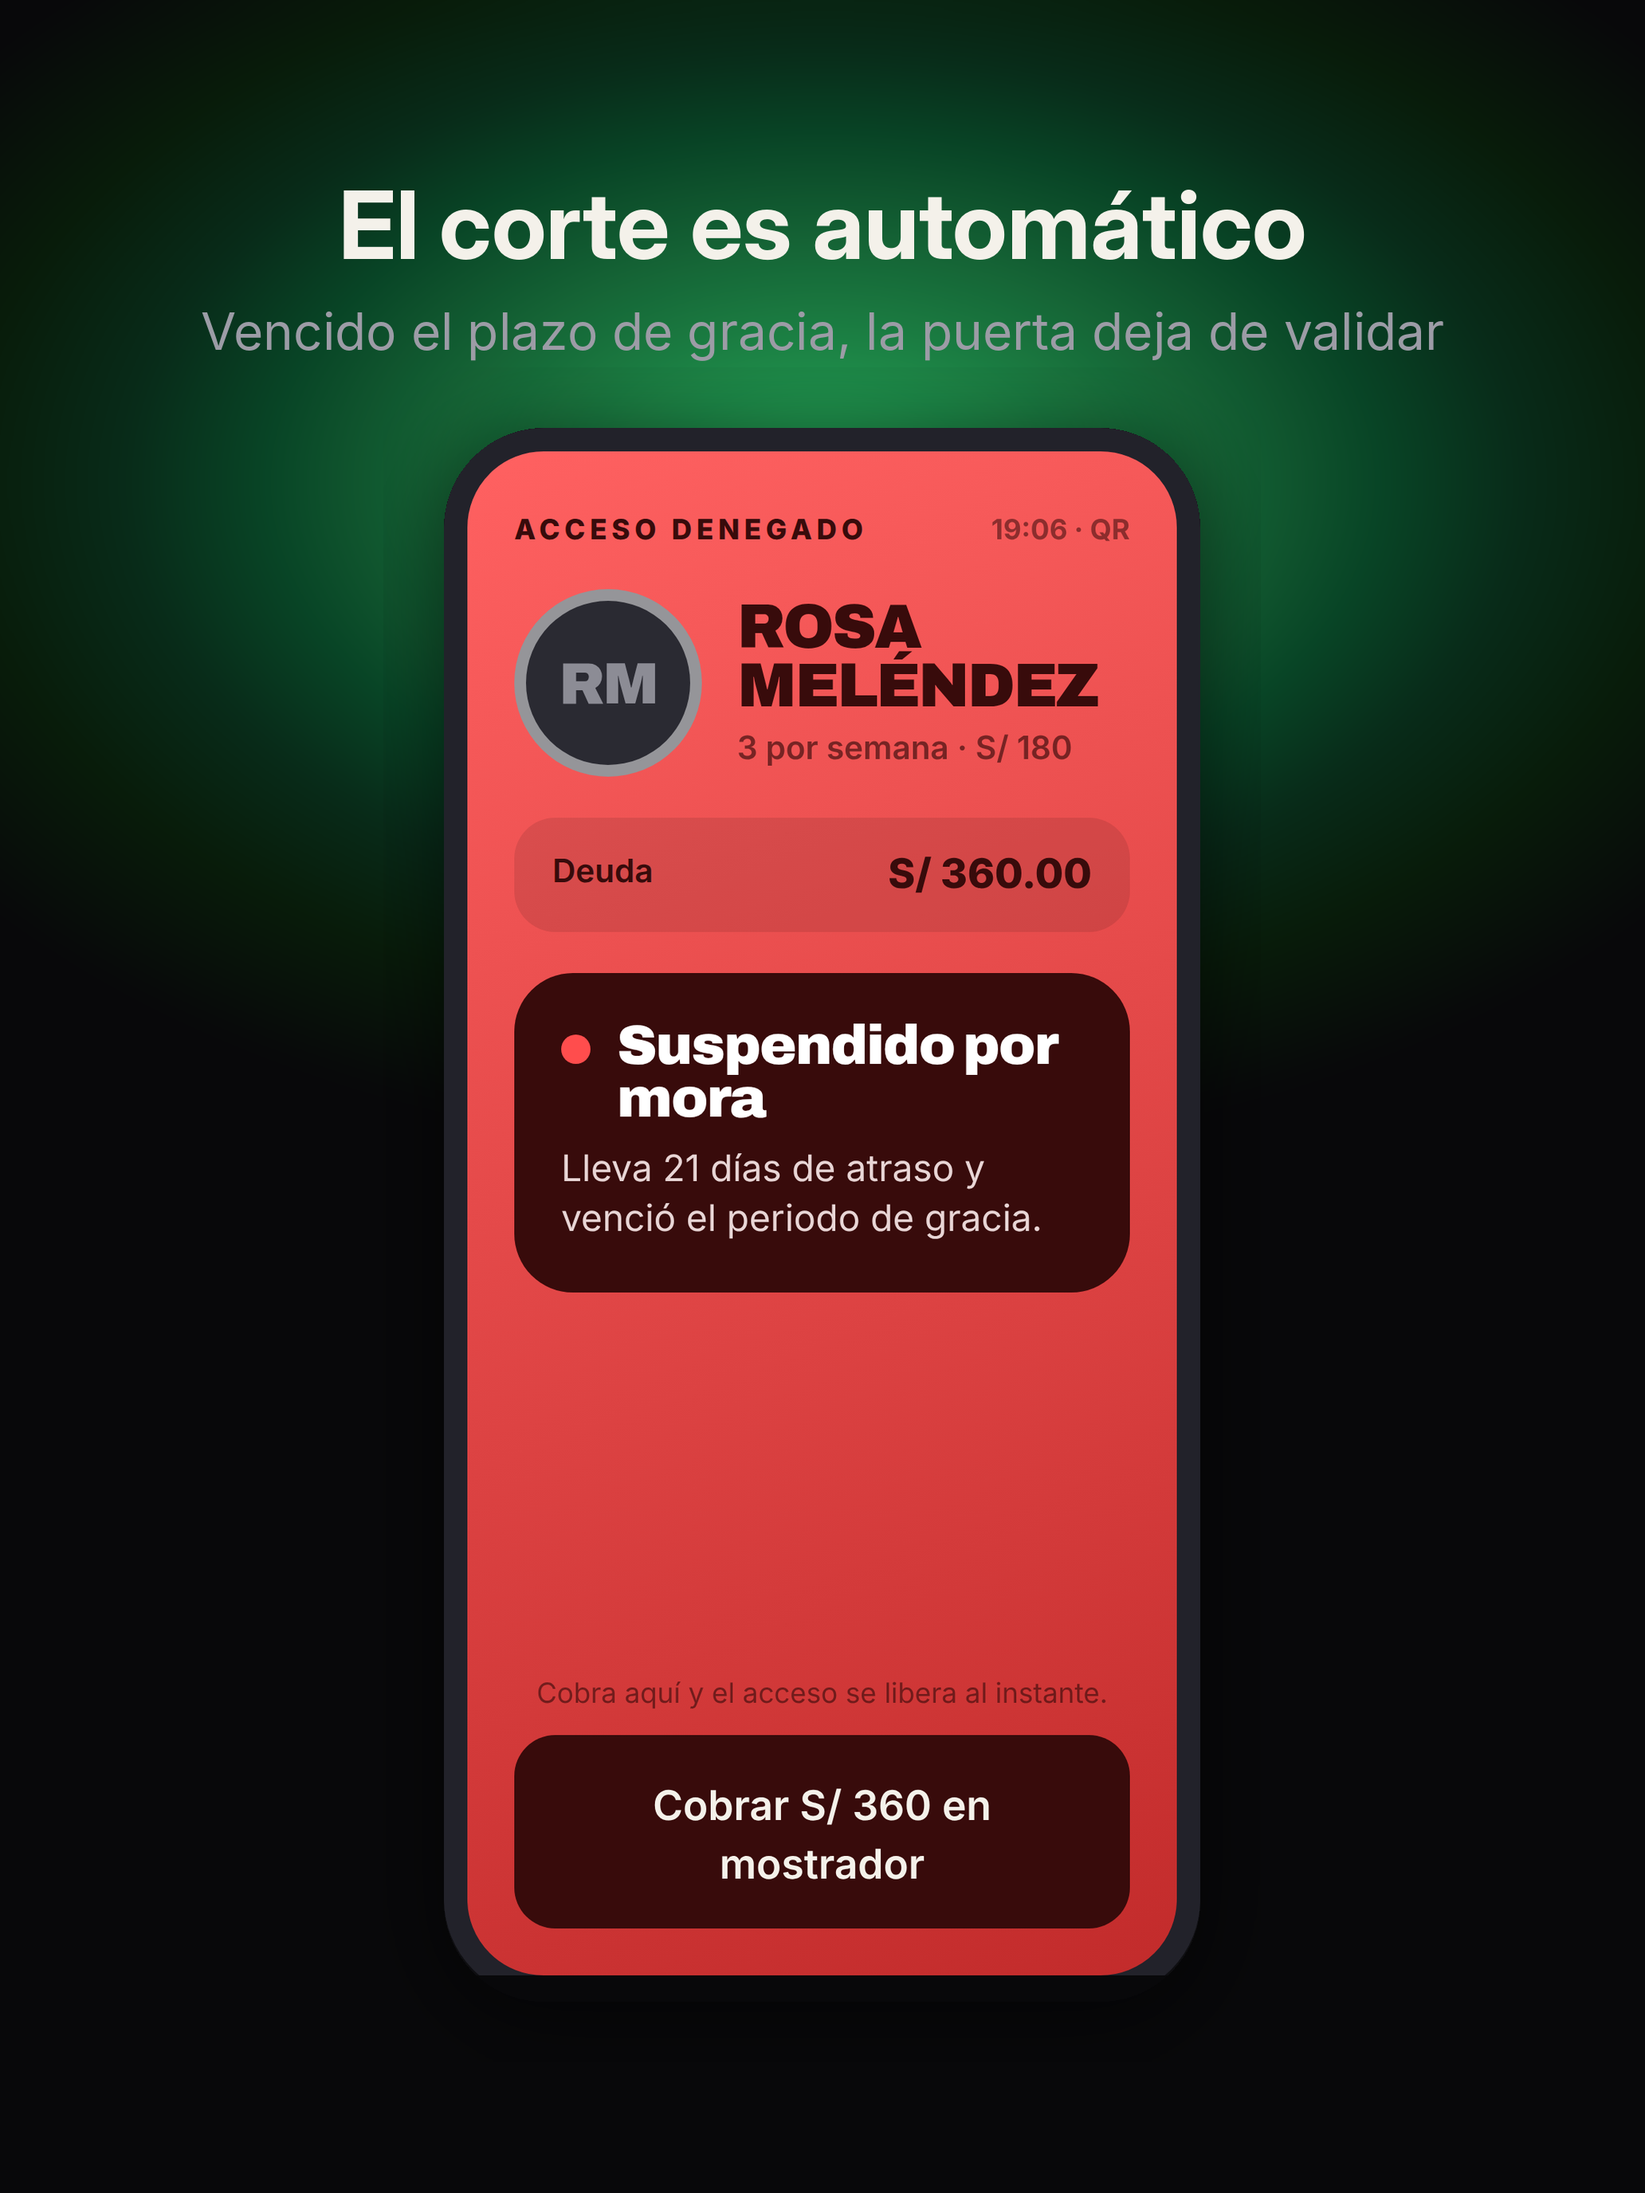
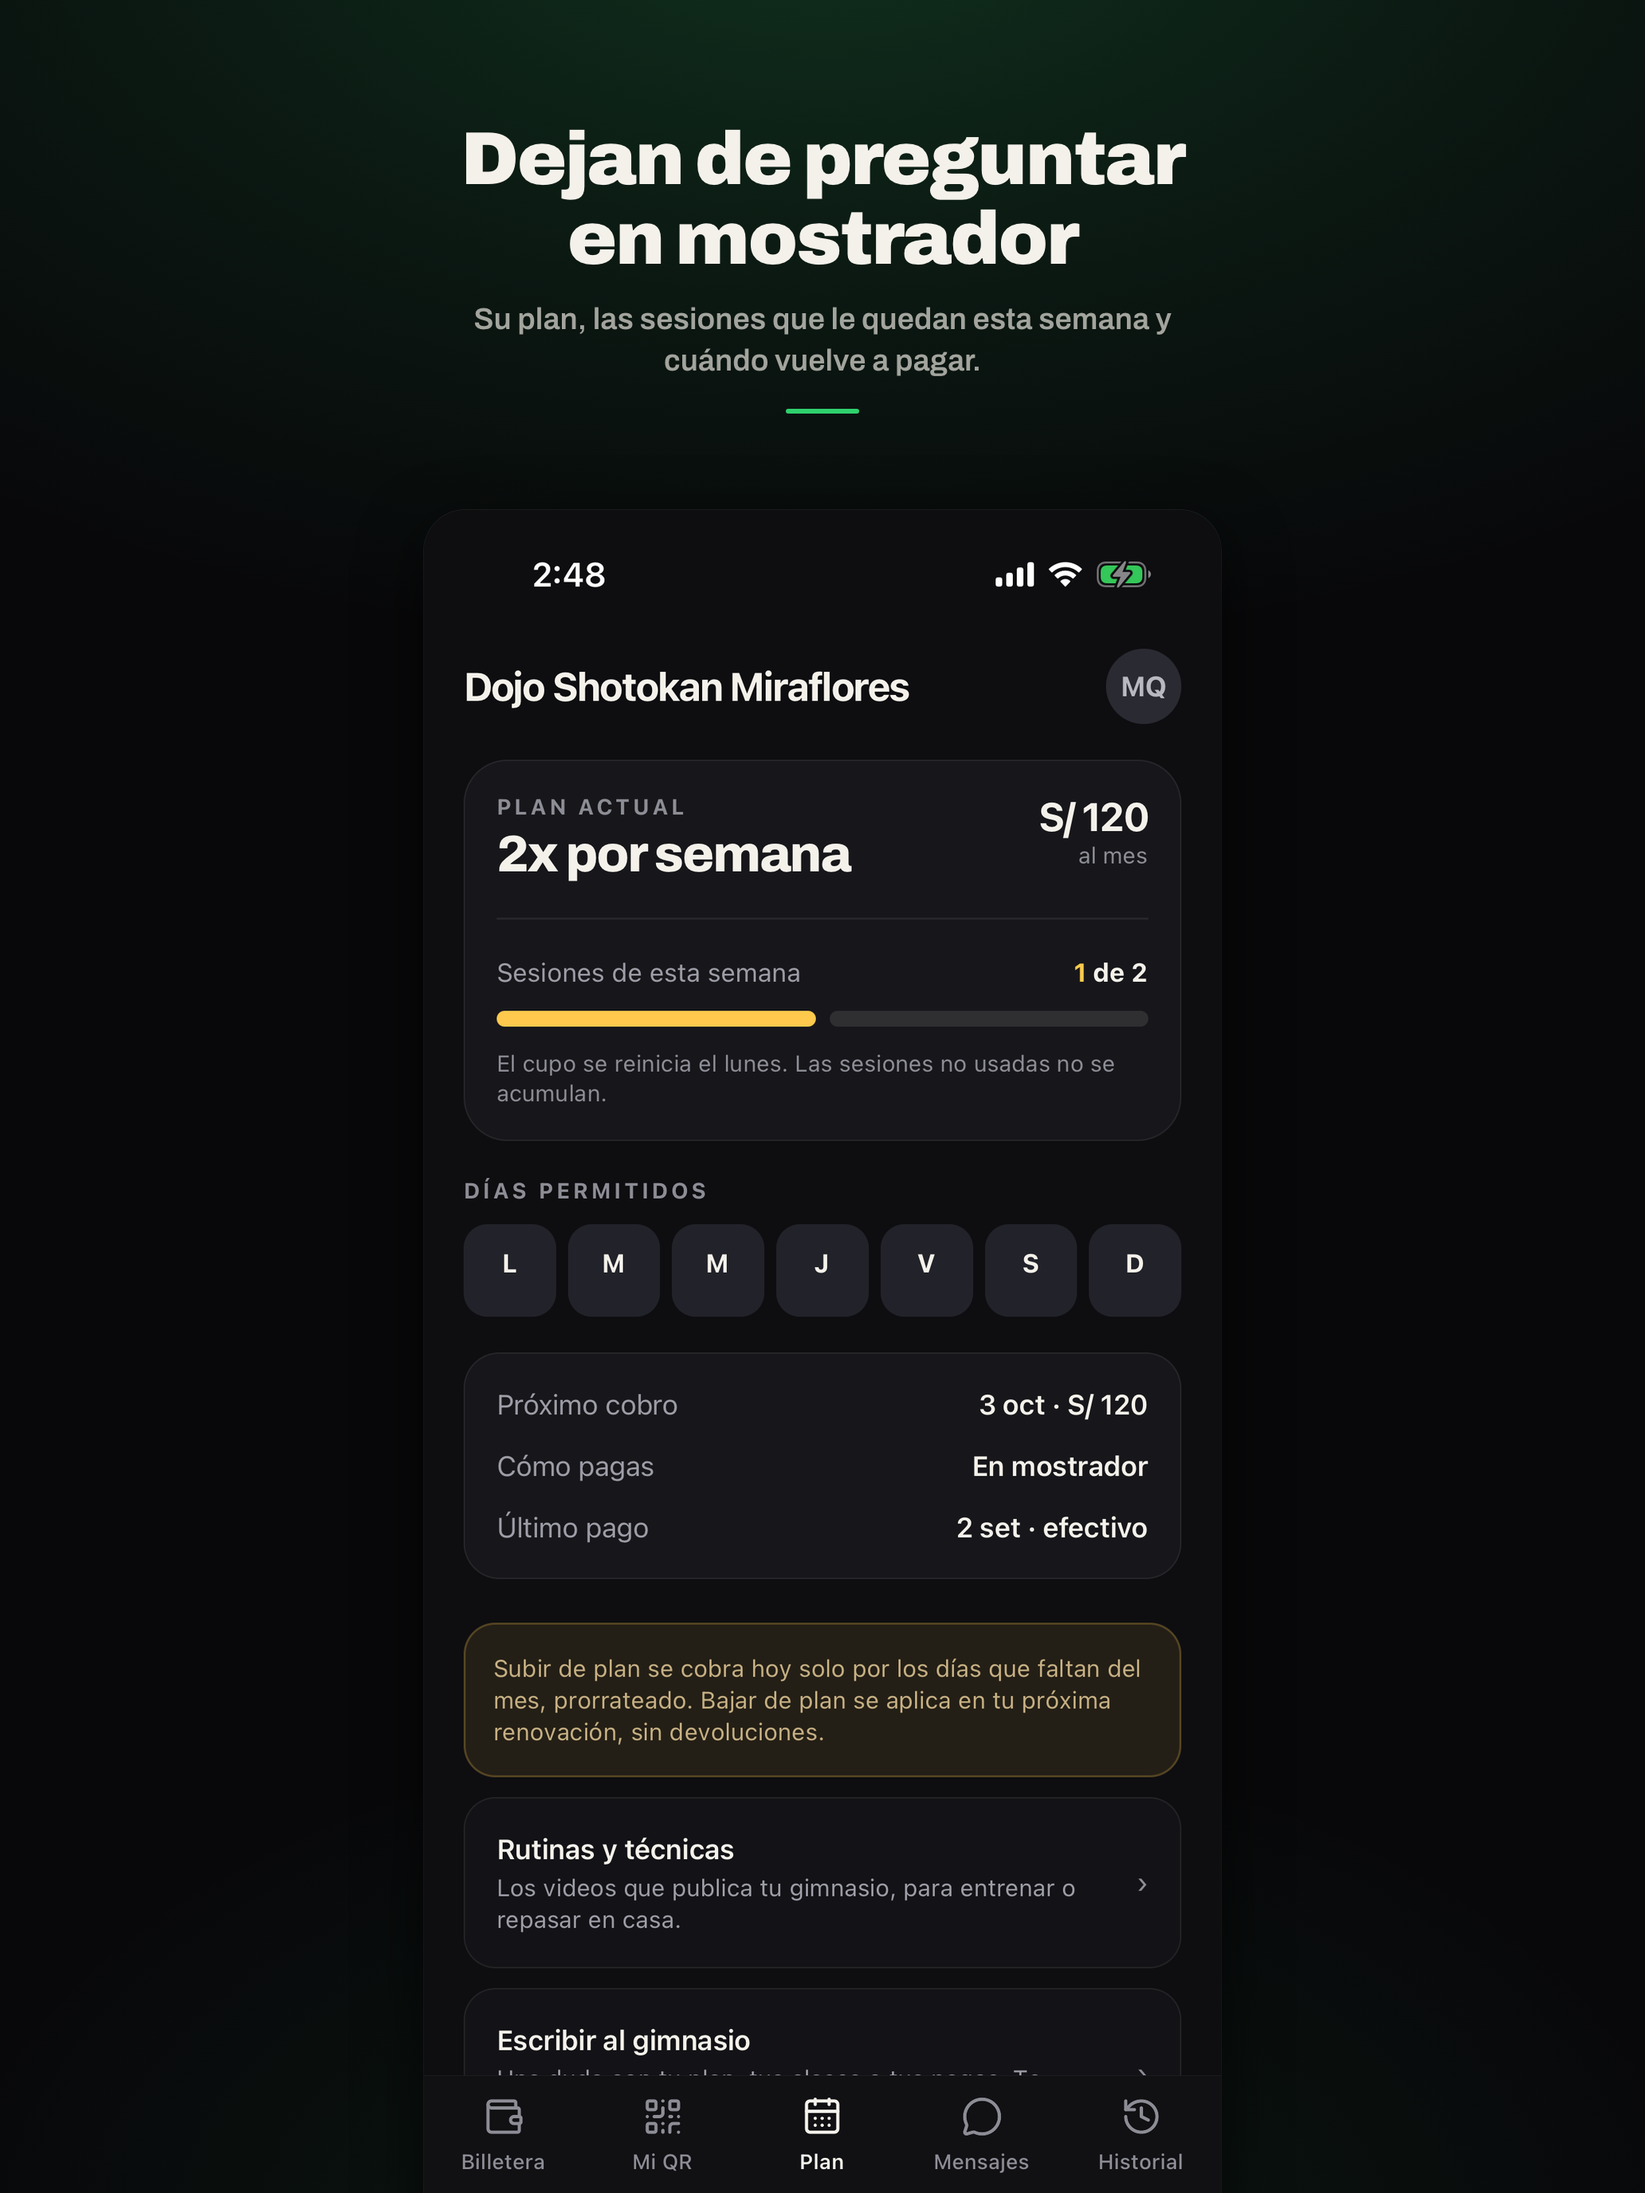
Las capturas de la tienda dejan de ser dibujos y pasan a ser la app
Las ocho de `store/appstore/` eran una reconstrucción con los tokens de
`@sinchi/ui`: un padrón de 42 alumnos que no existe, dibujado a mano. En la
landing ese argumento ya se había caído hace dos commits; en la tienda se cae más
fuerte, porque la captura es la promesa con la que alguien instala, y quien
encuentra otra cosa desinstala.

Ahora son las MISMAS capturas del simulador que usa la portada —el padrón con su
deuda, el QR que se renueva, el corte por mora, el plan del alumno y la billetera
con tres gimnasios— con un titular encima que dice qué gana quien mira. Cinco por
formato en vez de cuatro: la billetera es lo único que cuenta que una cuenta sirve
para varios locales, y era justo lo que no se veía.

SE COMMITEAN LAS PUBLICADAS, byte por byte, y la receta al lado. `generar.mjs`
las rehace desde `fuente/*.jpg` —el original de 1206 px, en JPEG porque en PNG
pesaban 4,5 MB y siempre se muestran reducidas—, y de ahí sale también por qué
hay una carpeta nueva: sin las fuentes, rehacer una lámina obligaba a repetir la
tarde entera de simulador que documenta `docs/capturas.md`.

DOS TRAMPAS DEL RENDER, las dos escritas en el archivo y en la doc. Chrome se
cuelga sin error ni log si la página trae un PNG de 2 MB, y siempre en la misma
lámina, así que parece lentitud y no lo es: se le da la imagen ya reducida al
tamaño en que se muestra. Y los cuerpos de letra van en píxeles y no en fracción
del ancho — el lienzo de iPad es 1,6 veces más ancho y casi igual de alto, así
[…]

diff --git a/docs/capturas.md b/docs/capturas.md
@@ -161,3 +161,50 @@ Chrome abierto vale headless, y tarda lo que tarda arrancar:
 
 WebP sería el término medio —lo entiende todo desde 2020— y `sharp` también lo
 escribe; se descartó por no sostener tres formatos para ahorrar diez kilobytes.
+
+## Las de la ficha de App Store
+
+Las ocho que había en `store/appstore/` eran **dibujos**: una reconstrucción de
+la app con los tokens de `@sinchi/ui`, no la app. En la landing ese argumento ya
+se había caído (ver el commit que las cambió); en la tienda se cae más fuerte,
+porque quien instala esperando lo que vio en las capturas y encuentra otra cosa
+desinstala, y esa desinstalación cuenta.
+
+Ahora son las **mismas capturas del simulador** que usa la landing, compuestas
+con un titular encima. Se rehacen con:
+
+```bash
+cd store/appstore/fuente && npm i sharp && node generar.mjs
+```
+
+Y salen las diez de `store/appstore/`: cinco de `iphone67` (1290×2796) y cinco
+de `ipad13` (2064×2752).
+
+Las diez PNG de `store/appstore/` son **las que están publicadas**, byte por
+byte. `generar.mjs` las reconstruye desde `fuente/*.jpg` y el resultado no es
+idéntico —el JPEG mueve algo los degradados oscuros del fondo, y a simple vista
+no se distingue—, así que si algún día hay que volver a subirlas, se suben las
+que salgan del generador y se commitean esas mismas.
+
+**Las fuentes son `fuente/*.jpg`**, el original de 1206 px de ancho en JPEG de
+calidad 94. En PNG pesaban 4,5 MB y aquí no aportan nada: se muestran reducidas
+a 1046 px (iPhone) y 1000 px (iPad), así que siempre se reduce y nunca se
+amplía. Si hay que sacar capturas nuevas, la receta entera —los datos sembrados,
+quién entra a cada pantalla, cómo se navega sin poder tocar el simulador— es la
+de arriba en este mismo archivo.
+
+**Dos trampas del render, las dos costaron una tarde:**
+
+- **Chrome se cuelga, sin error y sin log, si la página trae un PNG de 2 MB.**
+  Siempre en la misma lámina, que era justo la de la captura más pesada. El
+  síntoma engaña porque parece lentitud —la primera lámina sí sale— y se va
+  reduciendo la imagen al tamaño en que de verdad se muestra antes de dárselo.
+- **Los cuerpos de letra van en píxeles, no en fracción del ancho.** El lienzo
+  de iPad es 1,6 veces más ancho que el de iPhone y casi igual de alto: con
+  tipografía proporcional al ancho, el titular de iPad crecía hasta empujar el
+  subtítulo por debajo del teléfono y lo dejaba cortado a media frase.
+
+Y **las cinco se rinden en una sola tira** que se corta después con `sharp`:
+arrancar Chrome cuesta cerca de un minuto en esta Mac y dibujar la página no
+cuesta nada, así que cinco arranques por plataforma eran diez minutos de reloj
+para algo que tarda dos.
